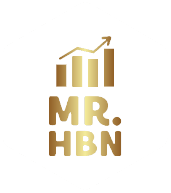
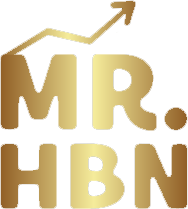
commit site

diff --git a/index.html b/index.html
@@ -16,10 +16,14 @@
     <!-- nav section -->
  
       <div class="container">
-        <div class="logo">
+       
+          <div class="logo">
             Portfo<span>lio</span>
             <img src="./assessts/hbn.png" alt="hbn_img" />
-          </div>
+        
+          
+        </div>
+      
     
           <div>
             <button><a href="#link">Contact Me</a></button>
@@ -37,8 +41,9 @@
 
       <div class="aboutme_desc">
         <h1>
-          My Name is <span class="aboutme_des_span">Hari Babu Neupane</span>
+          <span class="aboutme_des_span"><i>Hari Babu Neupane</i></span>
         </h1>
+
         <p>
           <span>Inspiring innovation</span> has been part of my DNA. Over the
           years I’ve grown into a advisor who prioritizes empathy and
@@ -49,13 +54,14 @@
           <span>seasoned inspirer</span> with creative direction, & strategic
           eye for success.
         </p>
+
       </div>
     </div>
 
     <!-- my services -->
     <div class="services">
       <div class="service_title">
-        <h1>MY <span class="info_span">SERVICES</span></h1>
+        <h1><span class="info_span">SERVICES</span></h1>
       </div>
 
       <div class="service_content">
@@ -69,22 +75,48 @@
     <!-- working experience -->
     <div class="work_container">
       <div class="work_title">
-        <h1>MY WORK <span class="info_span">EXPERIENCE</span></h1>
+        <h1><span class="info_span">EXPERIENCE</span></h1>
       </div>
       <div class="work_company">
-        <div class="com">NMB BANK</div>
-        <div class="com">Suman Sarwari HEP</div>
-        <div class="com">Jogmai HEP</div>
-        <div class="com">Jogmai Cascade HEP</div>
-        <div class="com">Setikhola HEP</div>
-        <div class="com">Krishi Bank</div>
-        <div class="com">Prakritik Krishi Anusandhan Kendra</div>
+        <div class="com">
+          <span id="tooltiptext">Served as Board of Directors from 2017 to 2019</span>
+          <div>NMB BANK</div>
+          
+        </div>
+        <div class="com">
+          <span id="tooltiptext">Served as Project Controller & Team Leader to successfully complete 5MW project on Time.</span>
+          <div>Suman Sarwari HEP</div>
+        
+      </div>
+        <div class="com">
+          <span id="tooltiptext">Served as Project Controller & Team Leader to successfully complete 7.6MW project on Time.</span>
+          <div>Jogmai HEP</div>
+          
+        </div>
+        <div class="com">
+          <span id="tooltiptext">Serving as Project Director & Team Leader to complete 5.2MW</span>
+          <div>Jogmai Cascade HEP</div>
+          
+        </div>
+        <div class="com">
+          <span id="tooltiptext">Served as Project Director from inception & successfully secured financial closure for 22MW project.</span>
+          <div>Setikhola HEP</div>
+        </div>
+        <div class="com">
+          <span id="tooltiptext">Inception of an innovative regenerative agriculture practice, promoting forest agriculture.</span>
+          <div>Krishi Ban</div>
+        </div>
+        <div class="com">
+          <span id="tooltiptext">Serving as Director to foster Natural farming/Landrace Agriculture.</span>
+          <div>Prakritik Krishi Anusandhan Kendra</div>
+          
+        </div>
       </div>
 
       <div class="motivation">
         <p>
           “There is nothing noble in being superior to your fellow man; true
-          nobility is being superior to your former self.” - <h2><span>Ernest Hemingway</span></h2>
+          nobility is being superior to your former self.” <h2><span class="ernest">Ernest Hemingway</span></h2>
         </p>
       </div>
     </div>
@@ -92,7 +124,7 @@
 
     <footer>
         <div>
-            Explore. Dream. Discover <a href="#"><span id="link" class="a_tag">hbn@mrhbn.com</span></a>
+            Explore... Dream... Discover... <a href="#"><span id="link" class="a_tag">hbn@mrhbn.com</span></a>
         </div>
     </footer>
   </body>

diff --git a/css/index.css b/css/index.css
@@ -20,20 +20,26 @@ span{
 
 }
 
+.ernest
+{
+    color: rgba(3, 255, 142, 0.492);
+    font-size: .5rem;
+}
+
 .info_span{
     text-decoration: underline;
     color: rgb(185, 181, 181);
     
 }
 
-
 .container{
     display: flex;
-    justify-content: space-around;
+    justify-content: space-evenly;
     align-items: center;
     padding-right: 2%;
     padding-left: 2%;
     flex-wrap: wrap;
+    margin-bottom: 1%;
 }
 
 .logo{
@@ -50,9 +56,9 @@ span{
     color: rgb(202, 53, 53);
 }
 
-.logo>img{
-    width: 50px;
-    cursor: pointer;
+.logo> img{
+   width: 5rem;
+    margin-left: 2%;
 }
 
 button{
@@ -104,17 +110,15 @@ button:hover{
     position: relative;
     margin-bottom: 1%;
     border-radius: 10px;
-    margin-top: 1%;
 }
 
 .about_img img{
-    width: 100%;
+    width: 80%;
     height: 100%;
     display: block;
     margin: auto;
     object-fit: contain;
     border-radius: 10px;
-    
 }
 
 .content{
@@ -177,7 +181,8 @@ button:hover{
 
     .aboutme_desc h1
     {
-        font-size: 2rem;
+        font-size: 3rem;
+        font-weight: 900;
     }
 
     .aboutme_desc p{
@@ -186,6 +191,7 @@ button:hover{
     .about_img
     {
         width: 60%;
+        margin-right: 2%;
     }
 
     .about_img img{
@@ -200,6 +206,20 @@ button:hover{
 }
 
 @media screen and (min-width:1000px){
+
+    .aboutme_container
+    {
+        margin-top: -2%;
+    }
+
+   .aboutme_desc
+   {
+    margin-top: -15%;
+   }
+
+   .aboutme_desc p{
+    margin-top: 3%;
+   }
 
     .about_img
     {
@@ -266,6 +286,11 @@ button:hover{
     {
         font-size: 1.5rem;
     }
+
+    .ernest
+    {
+        font-size: 1rem;
+    }
 }
 
 
@@ -310,13 +335,13 @@ button:hover{
     cursor: pointer;
     outline: none;
     font-size: .75rem;
+    transition: 1s ease-in-out;
 }
 
 .com:nth-child(7)
 {
     width: 80%;
 }
-
 
 .com:hover{
     background-color: black;
@@ -330,6 +355,23 @@ button:hover{
     text-align: center;
     margin-bottom: 3%;
     font-size: .75rem;
+}
+
+#tooltiptext{
+    display: none;
+    opacity: 0;
+    transition: opacity 2s ease;
+    font-size: .8rem;
+}
+
+.com:hover #tooltiptext{
+    display: block;
+    opacity: 1;
+    color: #fff;
+}
+
+.com:hover div{
+    display: none;
 }
 
 @media screen and (min-width:768px) {
@@ -346,6 +388,10 @@ button:hover{
     .motivation
     {
         font-size: 1.5rem;
+    }
+
+    #tooltiptext{
+        font-size: 1.3rem;
     }
 }
 
